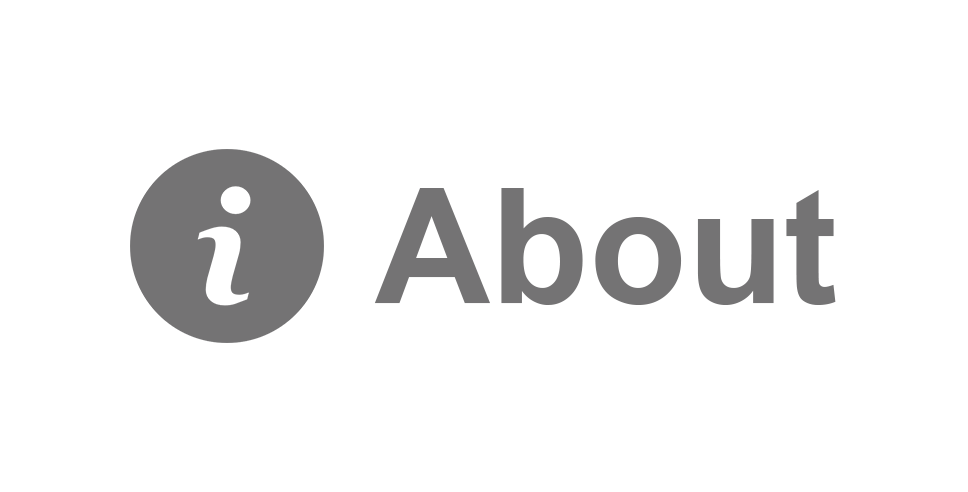
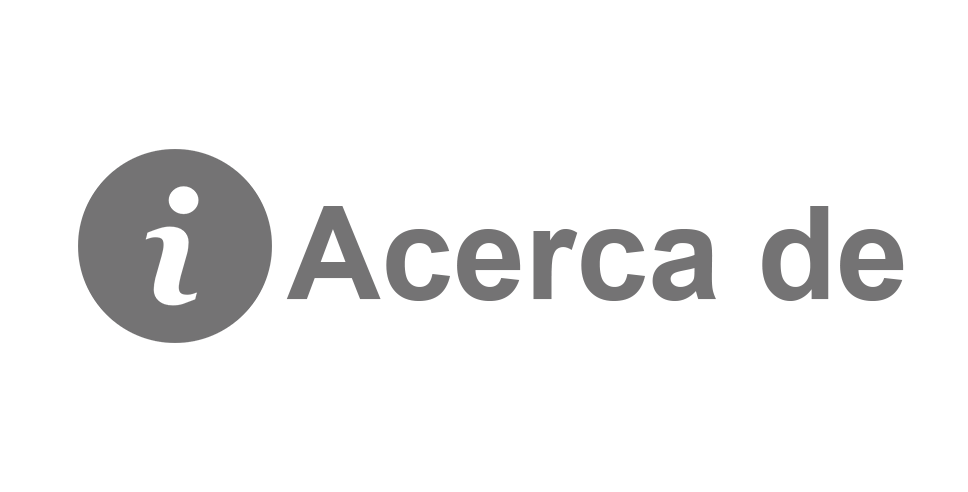
Translated many things

Changed region(s): [[0.062, 0.3049, 0.9298, 0.7012]]

diff --git a/Index.html b/Index.html
@@ -1,13 +1,13 @@
 <!DOCTYPE html>
-<html lang="en" itemscope itemtype="http://schema.org/WebPage">
+<html lang="es" itemscope itemtype="http://schema.org/WebPage">
 <head>
     <meta charset="UTF-8">
     <meta name="viewport" content="width=device-width, initial-scale=1.0">
-    <meta name="description" content="Explore a captivating Aircraft Spotting Archive, showcasing a diverse collection of planes, helicopters, and air balloons photographs.">
+    <meta name="description" content="Explora un cautivador Archivo de Avistamiento de Aeronaves, que exhibe una variada colección de fotografías de aviones, helicópteros y globos aerostáticos.">
     <link rel="shortcut icon" href="/Icons/favicon.ico" type="image/x-icon">
     <link rel="stylesheet" href="/css/style.css">
     <meta itemprop="author" content="Juan Cuervas Sanz">
-    <title>Explore the Skies: Aircraft Spotting Archive aims to take photos of planes, helicopters, and air balloons!</title>
+    <title>Explora los Cielos: El Archivo de Avistamiento de Aeronaves busca capturar imágenes de aviones, helicópteros y globos aerostáticos.</title>
 
 </head>
 <body itemscope itemtype="http://schema.org/CreativeWork">
@@ -34,50 +34,51 @@
         <div class ="div_line"></div>
     </div>
     <div class = "plane_photos" itemprop="planes">
-        <div class ="h1_div"><h1>AIRCRAFTS SPOTTING ARCHIVE</h1></div>
+        <div class ="h1_div"><h1>ARCHIVO DE AVISTAMIENTO DE AERONAVES</h1></div>
         <div class ="row">
             
-            <img class="plane_img" src="Cards/CardTemplate_Data Set 1.jpg" alt="Image 1">
-            <img class="plane_img" src="Cards/CardTemplate_Data Set 2.jpg" alt="Image 2">
-            <img class="plane_img" src="Cards/CardTemplate_Data Set 3.jpg" alt="Image 3">
-            <img class="plane_img" src="Cards/CardTemplate_Data Set 4.jpg" alt="Image 4">
-            <img class="plane_img" src="Cards/CardTemplate_Data Set 5.jpg" alt="Image 5">
-            <img class="plane_img" src="Cards/CardTemplate_Data Set 6.jpg" alt="Image 6">
-            <img class="plane_img" src="Cards/CardTemplate_Data Set 7.jpg" alt="Image 7">
-            <img class="plane_img" src="Cards/CardTemplate_Data Set 8.jpg" alt="Image 8">
-            <img class="plane_img" src="Cards/CardTemplate_Data Set 9.jpg" alt="Image 9">
-            <img class="plane_img" src="Cards/CardTemplate_Data Set 10.jpg" alt="Image 10">
-            <img class="plane_img" src="Cards/CardTemplate_Data Set 11.jpg" alt="Image 11">
-            <img class="plane_img" src="Cards/CardTemplate_Data Set 12.jpg" alt="Image 12">
-            <img class="plane_img" src="Cards/CardTemplate_Data Set 13.jpg" alt="Image 13">
-            <img class="plane_img" src="Cards/CardTemplate_Data Set 14.jpg" alt="Image 14">
-            <img class="plane_img" src="Cards/CardTemplate_Data Set 15.jpg" alt="Image 15">
-            <img class="plane_img" src="Cards/CardTemplate_Data Set 16.jpg" alt="Image 16">
-            <img class="plane_img" src="Cards/CardTemplate_Data Set 17.jpg" alt="Image 17">
-            <img class="plane_img" src="Cards/CardTemplate_Data Set 18.jpg" alt="Image 18">
-            <img class="plane_img" src="Cards/CardTemplate_Data Set 19.jpg" alt="Image 19">
-            <img class="plane_img" src="Cards/CardTemplate_Data Set 20.jpg" alt="Image 20">
-            <img class="plane_img" src="Cards/CardTemplate_Data Set 21.jpg" alt="Image 21">
-            <img class="plane_img" src="Cards/CardTemplate_Data Set 22.jpg" alt="Image 22">
-            <img class="plane_img" src="Cards/CardTemplate_Data Set 23.jpg" alt="Image 23">
-            <img class="plane_img" src="Cards/CardTemplate_Data Set 24.jpg" alt="Image 24">
-            <img class="plane_img" src="Cards/CardTemplate_Data Set 25.jpg" alt="Image 25">
-            <img class="plane_img" src="Cards/CardTemplate_Data Set 26.jpg" alt="Image 26">
-            <img class="plane_img" src="Cards/CardTemplate_Data Set 27.jpg" alt="Image 27">
-            <img class="plane_img" src="Cards/CardTemplate_Data Set 28.jpg" alt="Image 28">
-            <img class="plane_img" src="Cards/CardTemplate_Data Set 29.jpg" alt="Image 29">
-            <img class="plane_img" src="Cards/CardTemplate_Data Set 30.jpg" alt="Image 30">
-            <img class="plane_img" src="Cards/CardTemplate_Data Set 31.jpg" alt="Image 31">
-            <img class="plane_img" src="Cards/CardTemplate_Data Set 32.jpg" alt="Image 32">
-            <img class="plane_img" src="Cards/CardTemplate_Data Set 33.jpg" alt="Image 33">
-            <img class="plane_img" src="Cards/CardTemplate_Data Set 34.jpg" alt="Image 34">
-            <img class="plane_img" src="Cards/CardTemplate_Data Set 35.jpg" alt="Image 35">
-            <img class="plane_img" src="Cards/CardTemplate_Data Set 36.jpg" alt="Image 36">
-            <img class="plane_img" src="Cards/CardTemplate_Data Set 37.jpg" alt="Image 37">
-            <img class="plane_img" src="Cards/CardTemplate_Data Set 38.jpg" alt="Image 38">
-            <img class="plane_img" src="Cards/CardTemplate_Data Set 39.jpg" alt="Image 39">
-            <img class="plane_img" src="Cards/CardTemplate_Data Set 40.jpg" alt="Image 40">
-            <img class="plane_img" src="Cards/CardTemplate_Data Set 41.jpg" alt="Image 41">
+            <img class="plane_img" src="Cards/CardTemplate_SP_Data Set 1.jpg" alt="Image 1">
+            <img class="plane_img" src="Cards/CardTemplate_SP_Data Set 2.jpg" alt="Image 2">
+            <img class="plane_img" src="Cards/CardTemplate_SP_Data Set 3.jpg" alt="Image 3">
+            <img class="plane_img" src="Cards/CardTemplate_SP_Data Set 4.jpg" alt="Image 4">
+            <img class="plane_img" src="Cards/CardTemplate_SP_Data Set 5.jpg" alt="Image 5">
+            <img class="plane_img" src="Cards/CardTemplate_SP_Data Set 6.jpg" alt="Image 6">
+            <img class="plane_img" src="Cards/CardTemplate_SP_Data Set 7.jpg" alt="Image 7">
+            <img class="plane_img" src="Cards/CardTemplate_SP_Data Set 8.jpg" alt="Image 8">
+            <img class="plane_img" src="Cards/CardTemplate_SP_Data Set 9.jpg" alt="Image 9">
+            <img class="plane_img" src="Cards/CardTemplate_SP_Data Set 10.jpg" alt="Image 10">
+            <img class="plane_img" src="Cards/CardTemplate_SP_Data Set 11.jpg" alt="Image 11">
+            <img class="plane_img" src="Cards/CardTemplate_SP_Data Set 12.jpg" alt="Image 12">
+            <img class="plane_img" src="Cards/CardTemplate_SP_Data Set 13.jpg" alt="Image 13">
+            <img class="plane_img" src="Cards/CardTemplate_SP_Data Set 14.jpg" alt="Image 14">
+            <img class="plane_img" src="Cards/CardTemplate_SP_Data Set 15.jpg" alt="Image 15">
+            <img class="plane_img" src="Cards/CardTemplate_SP_Data Set 16.jpg" alt="Image 16">
+            <img class="plane_img" src="Cards/CardTemplate_SP_Data Set 17.jpg" alt="Image 17">
+            <img class="plane_img" src="Cards/CardTemplate_SP_Data Set 18.jpg" alt="Image 18">
+            <img class="plane_img" src="Cards/CardTemplate_SP_Data Set 19.jpg" alt="Image 19">
+            <img class="plane_img" src="Cards/CardTemplate_SP_Data Set 20.jpg" alt="Image 20">
+            <img class="plane_img" src="Cards/CardTemplate_SP_Data Set 21.jpg" alt="Image 21">
+            <img class="plane_img" src="Cards/CardTemplate_SP_Data Set 22.jpg" alt="Image 22">
+            <img class="plane_img" src="Cards/CardTemplate_SP_Data Set 23.jpg" alt="Image 23">
+            <img class="plane_img" src="Cards/CardTemplate_SP_Data Set 24.jpg" alt="Image 24">
+            <img class="plane_img" src="Cards/CardTemplate_SP_Data Set 25.jpg" alt="Image 25">
+            <img class="plane_img" src="Cards/CardTemplate_SP_Data Set 26.jpg" alt="Image 26">
+            <img class="plane_img" src="Cards/CardTemplate_SP_Data Set 27.jpg" alt="Image 27">
+            <img class="plane_img" src="Cards/CardTemplate_SP_Data Set 28.jpg" alt="Image 28">
+            <img class="plane_img" src="Cards/CardTemplate_SP_Data Set 29.jpg" alt="Image 29">
+            <img class="plane_img" src="Cards/CardTemplate_SP_Data Set 30.jpg" alt="Image 30">
+            <img class="plane_img" src="Cards/CardTemplate_SP_Data Set 31.jpg" alt="Image 31">
+            <img class="plane_img" src="Cards/CardTemplate_SP_Data Set 32.jpg" alt="Image 32">
+            <img class="plane_img" src="Cards/CardTemplate_SP_Data Set 33.jpg" alt="Image 33">
+            <img class="plane_img" src="Cards/CardTemplate_SP_Data Set 34.jpg" alt="Image 34">
+            <img class="plane_img" src="Cards/CardTemplate_SP_Data Set 35.jpg" alt="Image 35">
+            <img class="plane_img" src="Cards/CardTemplate_SP_Data Set 36.jpg" alt="Image 36">
+            <img class="plane_img" src="Cards/CardTemplate_SP_Data Set 37.jpg" alt="Image 37">
+            <img class="plane_img" src="Cards/CardTemplate_SP_Data Set 38.jpg" alt="Image 38">
+            <img class="plane_img" src="Cards/CardTemplate_SP_Data Set 39.jpg" alt="Image 39">
+            <img class="plane_img" src="Cards/CardTemplate_SP_Data Set 40.jpg" alt="Image 40">
+            <img class="plane_img" src="Cards/CardTemplate_SP_Data Set 41.jpg" alt="Image 41">
+            
         </div>
      
 
@@ -85,7 +86,8 @@
     </div>
 
     <div class="copyright">
-        <p>© Juan Cuervas Sanz 2023 | All rights reserved</p>
+        <p>© Juan Cuervas Sanz 2023 | Todos los derechos reservados</p>
+
     </div>
 
 

diff --git a/About.html b/About.html
@@ -1,14 +1,14 @@
 <!DOCTYPE html>
-<html lang="en" itemscope itemtype="http://schema.org/WebPage">
+<html lang="es" itemscope itemtype="http://schema.org/WebPage">
 <head>
     <meta charset="UTF-8">
     <meta name="viewport" content="width=device-width, initial-scale=1.0">
-    <meta name="description" content="Explore a captivating Aircraft Spotting Archive, showcasing a diverse collection of planes, helicopters, and air balloons photographs.">
+    <meta name="description" content="Explora un cautivador Archivo de Avistamiento de Aeronaves, que exhibe una variada colección de fotografías de aviones, helicópteros y globos aerostáticos.">
     <link rel="shortcut icon" href="/Icons/favicon.ico" type="image/x-icon">
     <link rel="stylesheet" href="/css/style.css">
     <meta itemprop="author" content="Juan Cuervas Sanz">
-    <title>Explore the Skies: Aircraft Spotting Archive aims to take photos of planes, helicopters, and air balloons!</title></head>
-<body class= "about_bck" itemscope itemtype="http://schema.org/CreativeWork">
+    <title>Explora los Cielos: El Archivo de Avistamiento de Aeronaves busca capturar imágenes de aviones, helicópteros y globos aerostáticos.</title>
+    <body class= "about_bck" itemscope itemtype="http://schema.org/CreativeWork">
     <div class = "navbar">
         <div class = "navcomponent">
 
@@ -31,30 +31,29 @@
     <div class = "about" itemprop="description">
         <div class ="pfp"></div>
         
-        <p>Embark on a thrilling visual journey through the skies with my meticulously curated Aircrafts Spotting Archive. This platform is a dedicated space where aviation enthusiasts can relish the beauty of various aircraft, primarily focusing on planes visible from my window in Valencia. However, my ambition extends beyond planes, as I endeavor to capture helicopters, air balloons, and other flying marvels.</p>
+        <p>Embárcate en un emocionante viaje visual a través de los cielos con mi meticulosamente comisariado Archivo de Aviones. Esta plataforma es un espacio dedicado donde los entusiastas de la aviación pueden disfrutar de la belleza de varios aviones, centrándose principalmente en los aviones visibles desde mi ventana en Valencia. Sin embargo, mi ambición se extiende más allá de los aviones, ya que me esfuerzo por capturar helicópteros, globos aerostáticos y otras maravillas voladoras.</p> 
+        <p>Armado con mi fiel Nikon D750 DSLR y el potente telescopio Skywatcher 72ED, me esfuerzo por ofrecer una calidad de imagen excepcional. Este dúo dinámico me permite capturar impresionantes instantáneas de aviones durante sus aterrizajes en Valencia, así como de aeronaves lejanas, lo que garantiza una colección diversa y cautivadora para los aficionados a la aviación.</p>
+       
+        <h2>Explorando los cielos con precisión</h2>
+        <p>Mi pasión por el avistamiento de aviones va más allá de un mero pasatiempo; es una búsqueda para documentar la increíble variedad de máquinas voladoras que adornan los cielos. La cámara DSLR Nikon D750, famosa por su rendimiento superior, se combina a la perfección con el telescopio Skywatcher 72ED, un compañero fiable que mejora mi capacidad para capturar imágenes nítidas y detalladas.</p>
 
-        <p>Armed with my trusty Nikon D750 DSLR and the powerful Skywatcher 72ED telescope, I strive to deliver exceptional image quality. This dynamic duo allows me to capture stunning shots of planes during their landings in Valencia, as well as distant aircraft, ensuring a diverse and captivating collection for aviation aficionados.</p>
+        <p>Valencia sirve de telón de fondo para una parte importante de mi colección, en la que me centro en los aviones que realizan su descenso para aterrizar. La posición estratégica y la óptica excepcional me permiten lograr una claridad notable, proporcionando a los espectadores una perspectiva única de estas maniobras aéreas.</p>
+        <h2>Ampliando el horizonte</h2>
+        <p>Aunque los aviones dominan el horizonte, mi aspiración va más allá de sus alas. Los helicópteros que surcan con elegancia el espacio aéreo y los coloridos globos aerostáticos que flotan entre las nubes se convierten en temas de igual fascinación. La diversidad de tipos de aeronaves añade un rico tapiz a este archivo, ofreciendo a los entusiastas una experiencia visual completa.</p> 
 
-        <h2>Exploring the Skies with Precision</h2>
-        <p>My passion for aircraft spotting goes beyond a mere hobby; it's a quest to document the incredible variety of flying machines that grace the skies. The Nikon D750 DSLR, renowned for its superior performance, combines seamlessly with the Skywatcher 72ED telescope, a reliable companion that enhances my ability to capture clear and detailed images.</p>
-
-        <p>Valencia serves as the backdrop for a significant portion of my collection, where I focus on planes making their descent for a landing. The strategic positioning and exceptional optics allow me to achieve remarkable clarity, providing viewers with a unique perspective on these aerial maneuvers.</p>
-
-        <h2>Expanding the Horizon</h2>
-        <p>While planes dominate the skyline, my aspiration reaches beyond their wings. Helicopters gracefully navigating the airspace and colorful air balloons drifting through the clouds become subjects of equal fascination. The diversity of aircraft types adds a rich tapestry to this archive, offering enthusiasts a comprehensive visual experience.</p>
-
-        <h2>Technical Excellence</h2>
-        <p>The combination of the Nikon D750 DSLR and the Skywatcher 72ED telescope is not just about capturing images; it's about preserving moments with precision and clarity. Whether it's the sleek lines of a modern jet or the distinctive silhouette of a helicopter, each photograph is a testament to the technical prowess of this equipment. <br><br>
-        Immerse yourself in the world of aviation photography by exploring my Aircrafts Spotting Archive. From the bustling runways of Valencia to the serene expanses where air balloons soar, this archive is a celebration of the boundless beauty found in the skies.</p>
-
-        <p>Thank you for visiting and being a part of this exciting journey through the vast and captivating realm of aviation!</p>
+        <h2>Excelencia Técnica</h2>
+        <p>La combinación de la cámara Nikon D750 DSLR y el telescopio Skywatcher 72ED no se trata solo de capturar imágenes; se trata de preservar momentos con precisión y claridad. Ya sea en las elegantes líneas de un jet moderno o en la distintiva silueta de un helicóptero, cada fotografía es un testimonio de la destreza técnica de este equipo. <br><br>
+        Sumérgete en el mundo de la fotografía aeronáutica explorando mi Archivo de Avistamiento de Aeronaves. Desde las bulliciosas pistas de aterrizaje de Valencia hasta las serenas extensiones donde los globos aerostáticos se elevan, este archivo es una celebración de la belleza sin límites que se encuentra en los cielos.</p>
+        
+        <p>¡Gracias por visitar y ser parte de este emocionante viaje a través del vasto y cautivador reino de la aviación!</p>
+        
      
        
 
     </div>
 
     <div class="copyright">
-        <p>© Juan Cuervas Sanz 2023 | All rights reserved</p>
+        <p>© Juan Cuervas Sanz 2023 | Todos los derechos reservados</p>
     </div>
 
 </body>
